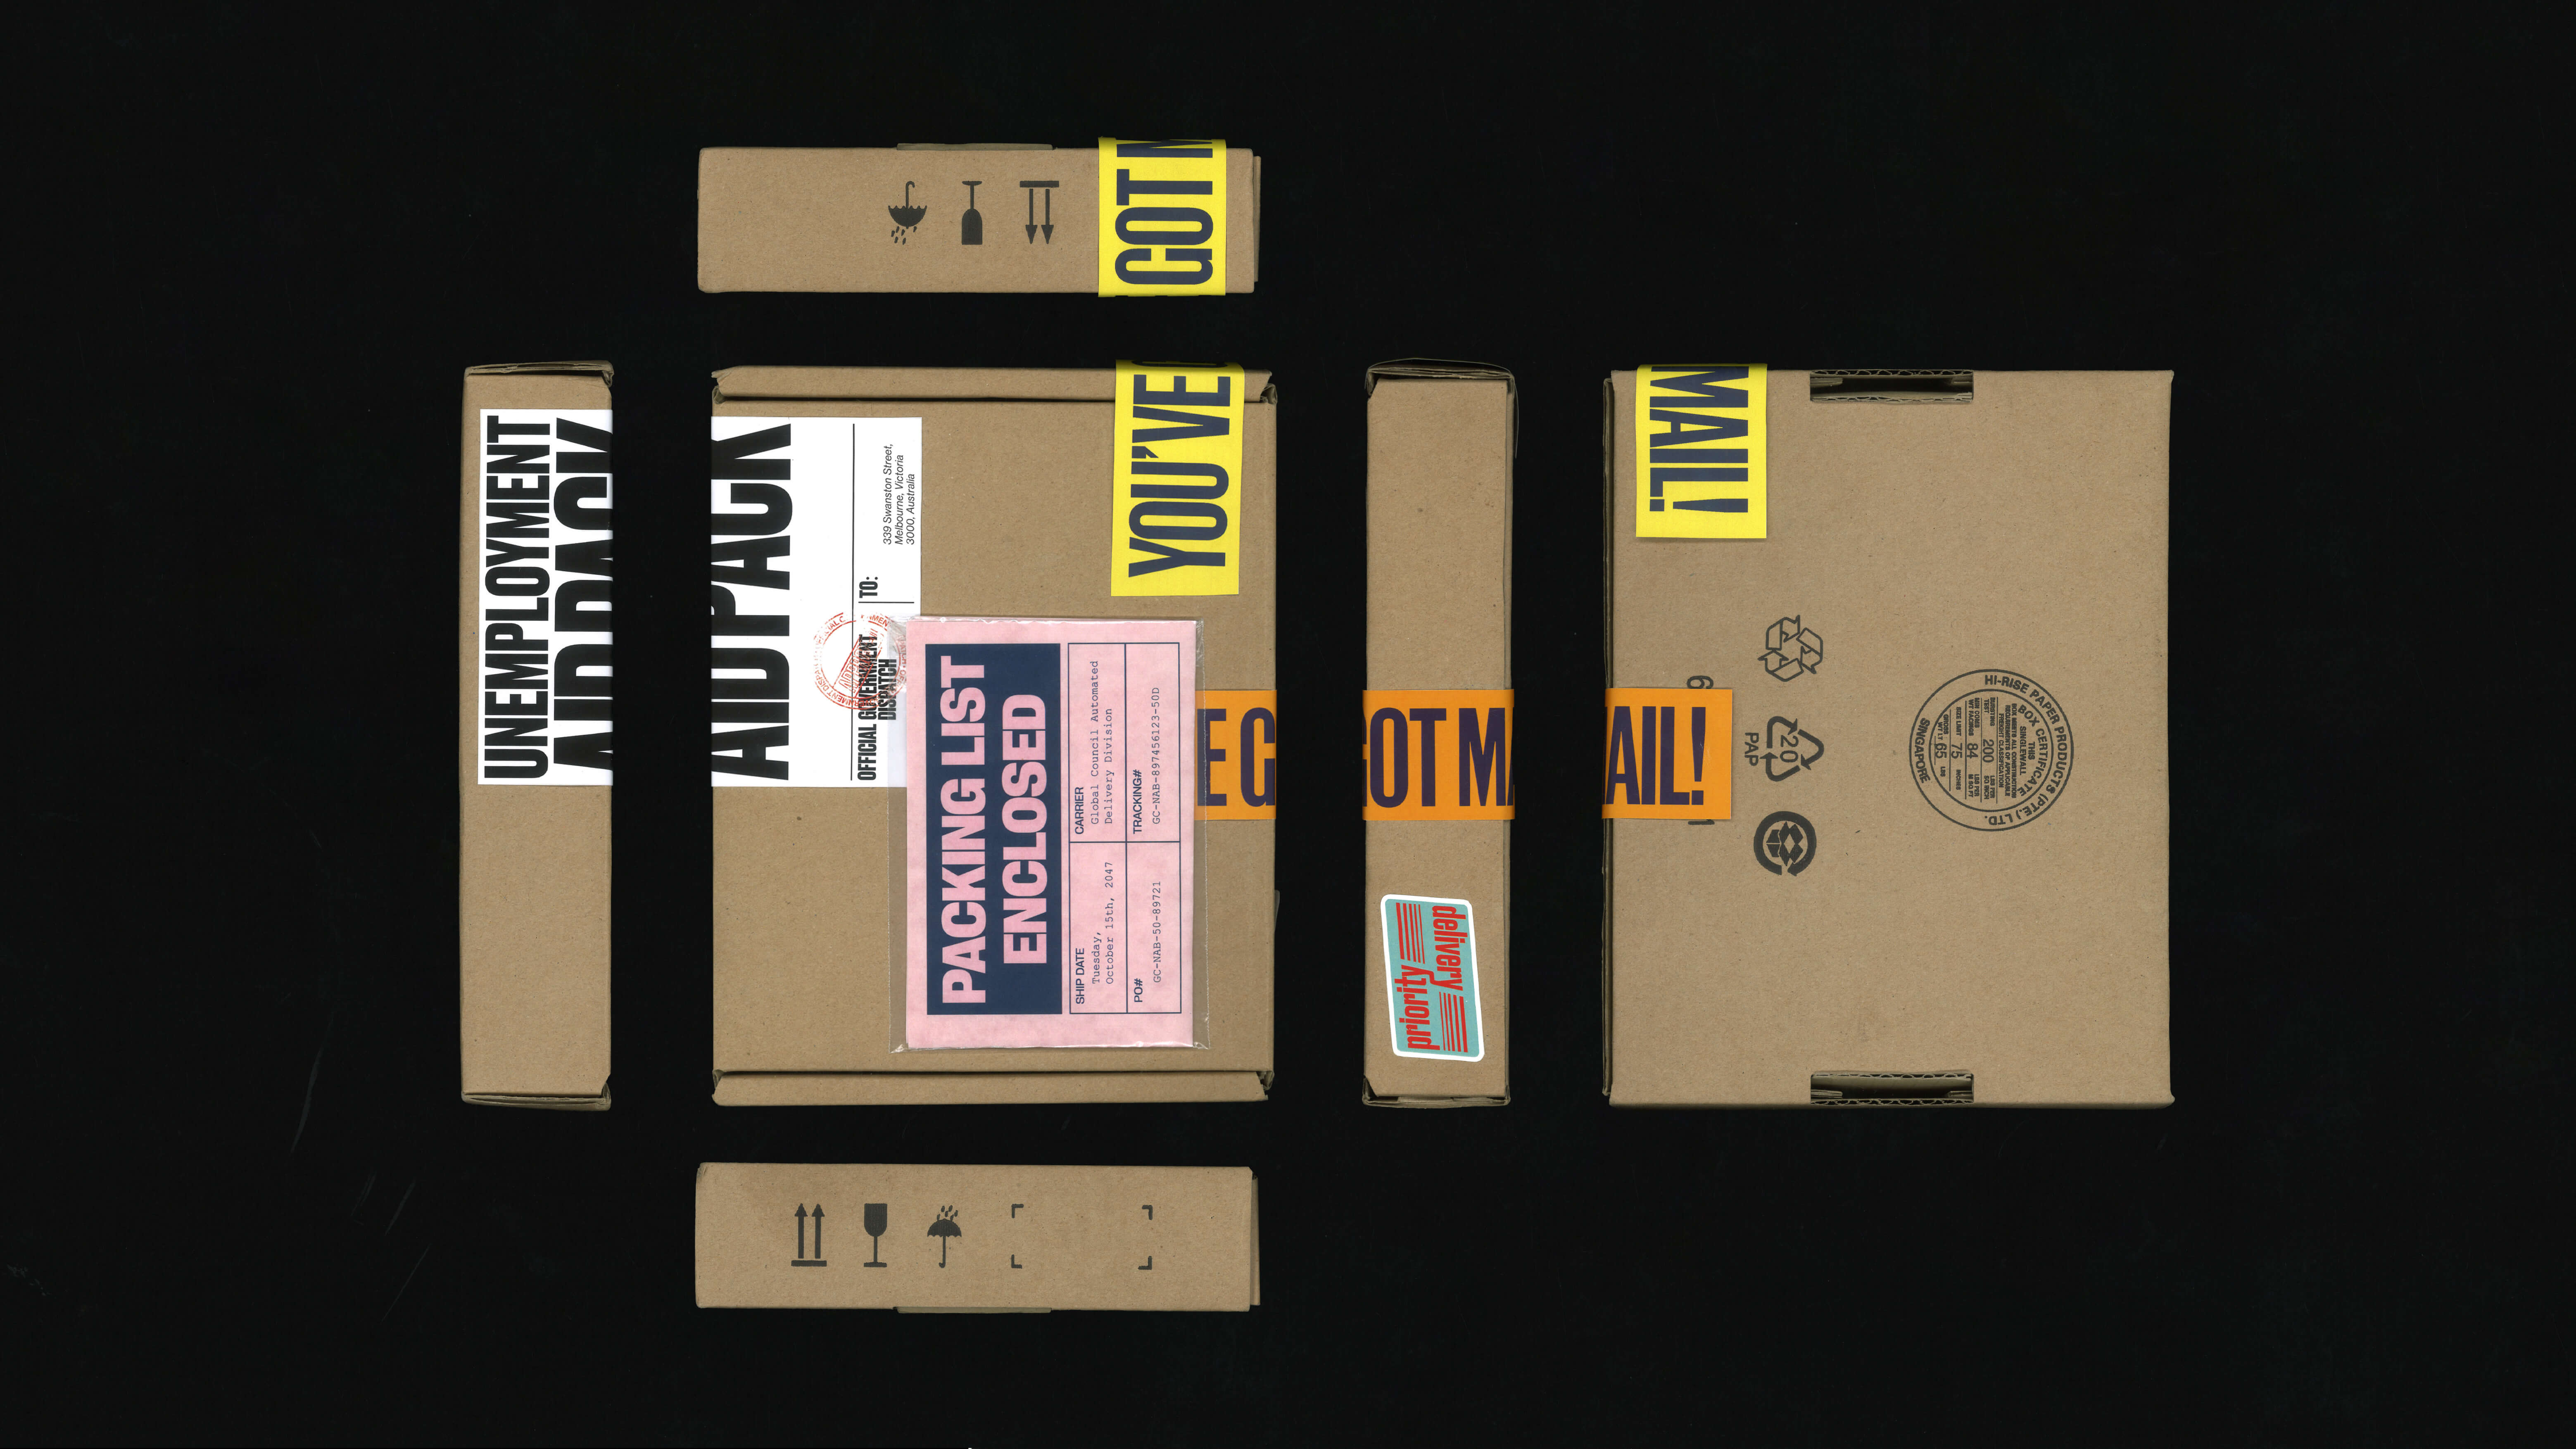
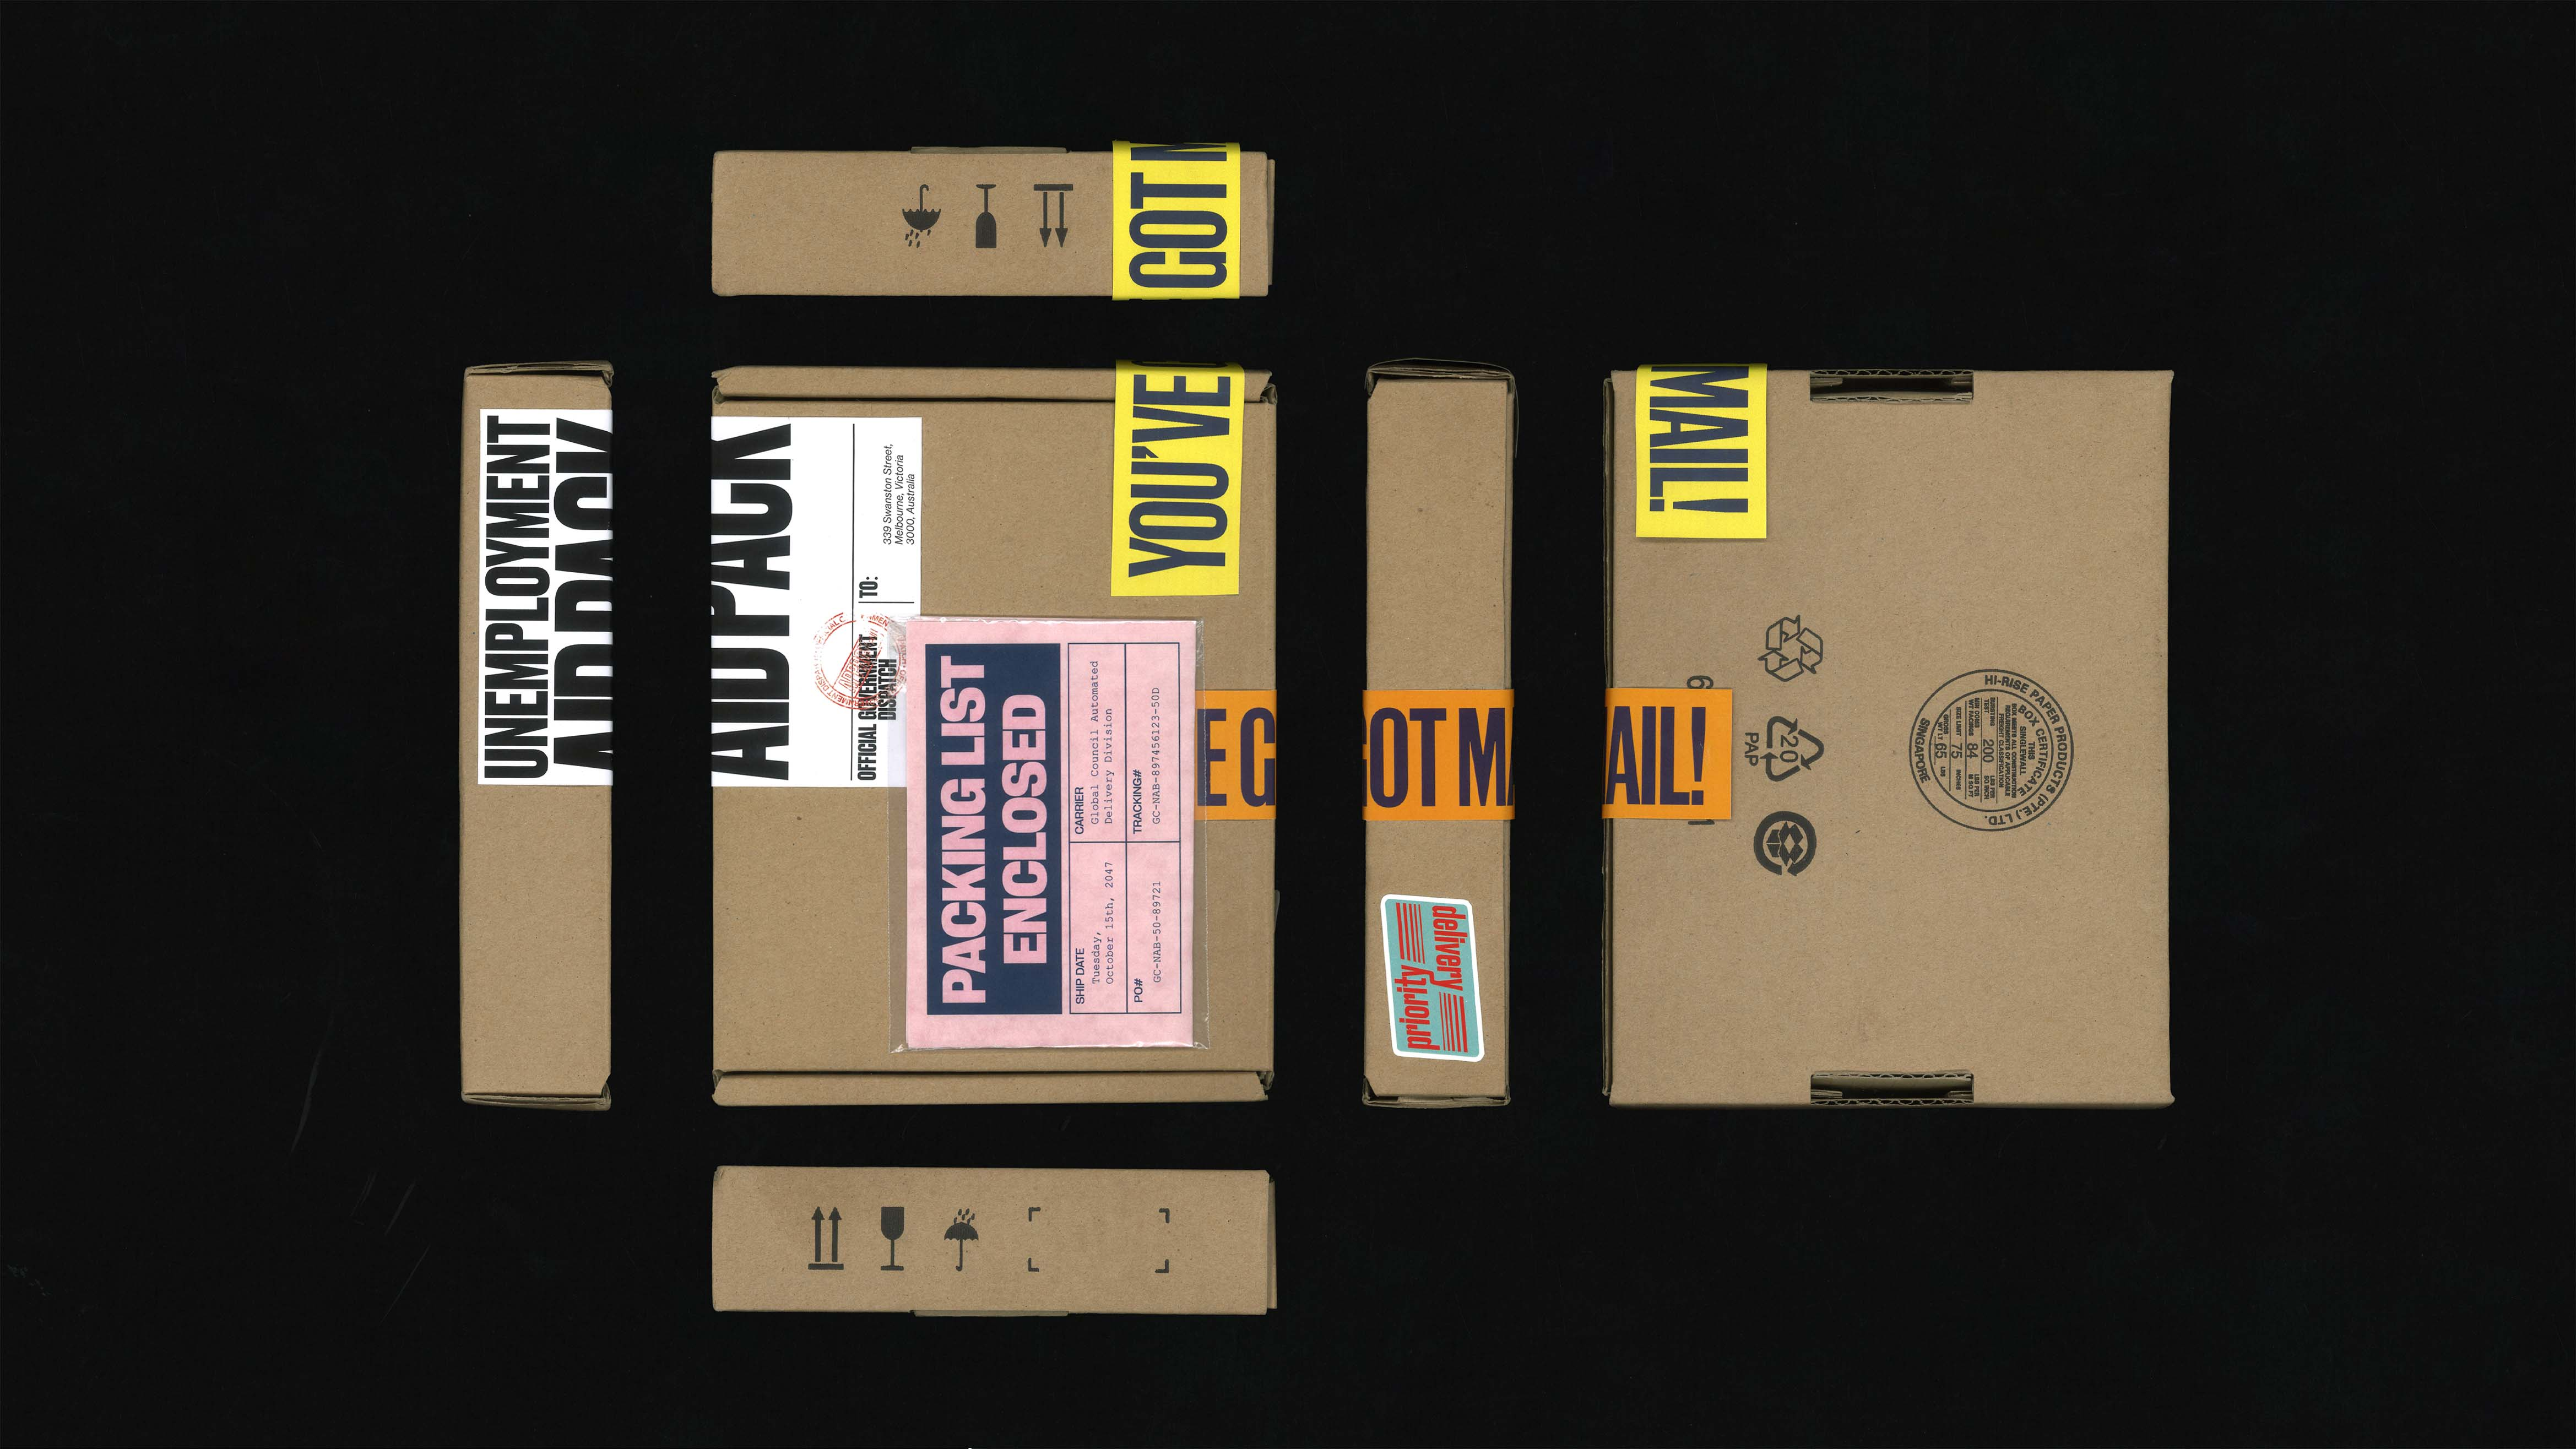
project update

diff --git a/projects/dept7.html b/projects/dept7.html
@@ -52,24 +52,20 @@
         <img src="../photos/dept7/dept4.jpg" alt="">
         <div class="photos">
             <img src="../photos/dept7/dept5.jpg" alt="">
-            <img src="../photos/dept7/dept6.gif" alt="">
+            <img src="../photos/dept7/dept6.jpg" alt="">
         </div>
         <img src="../photos/dept7/dept7.jpg" alt="">
         <div class="photos">
             <img src="../photos/dept7/dept8.jpg" alt="">
-            <img src="../photos/dept7/dept9.jpg" alt="">
+            <img src="../photos/dept7/dept17.jpg" alt="">
         </div>
         <img src="../photos/dept7/dept15.jpg" alt="">
         <img src="../photos/dept7/dept19.jpg" alt="">
         <img src="../photos/dept7/dept20.jpg" alt="">
+        <img src="../photos/dept7/dept14.jpg" alt="">
         <div class="photos">
             <img src="../photos/dept7/dept11.jpg" alt="">
             <img src="../photos/dept7/dept13.jpg" alt="">
-        </div>
-        <img src="../photos/dept7/dept14.jpg" alt="">
-        <div class="photos">
-          <img src="../photos/dept7/dept18.jpg" alt="">
-          <img src="../photos/dept7/dept17.jpg" alt="">
         </div>
         <img src="../photos/dept7/dept16.jpg" alt="">
         

diff --git a/projects/mailbox.html b/projects/mailbox.html
@@ -46,16 +46,17 @@
         <img src="../photos/mail/mail3.jpeg" alt="">
         <img src="../photos/mail/mail4.jpeg" alt="">
         <img src="../photos/mail/mail5.jpg" alt="">
-        <img src="../photos/mail/mail6.jpeg" alt="">
+        <img src="../photos/mail/mail6.jpg" alt="">
         <img src="../photos/mail/mail7.jpeg" alt="">
         <img src="../photos/mail/mail8.gif" alt="">
         <img src="../photos/mail/mail9.jpg" alt="">
         <img src="../photos/mail/mail10.jpeg" alt="">
         <img src="../photos/mail/mail11.jpg" alt="">
-        <img src="../photos/mail/mail12.jpeg" alt="">
-        <img src="../photos/mail/mail13.jpeg" alt="">
-        <img src="../photos/mail/mail14.jpg" alt="">
+        <img src="../photos/mail/mail20.jpg" alt="">
         <img src="../photos/mail/mail15.jpg" alt="">
+        <img src="../photos/mail/mail16.jpg" alt="">
+        <img src="../photos/mail/mail17.jpg" alt="">
+        <img src="../photos/mail/mail19.jpg" alt="">
     </div>
     
 

diff --git a/archive.html b/archive.html
@@ -34,6 +34,7 @@
     <div class="folio-section">
         <a href="" class="archive-item">
             <img src="imagearchive/camp.jpg" alt="camp">
+            <span class="under-text">[under construction]</span>
             <div class="overlay">
                 <div class="overlay-text">
                     <h3>CAMP MAGAZINE</h3>